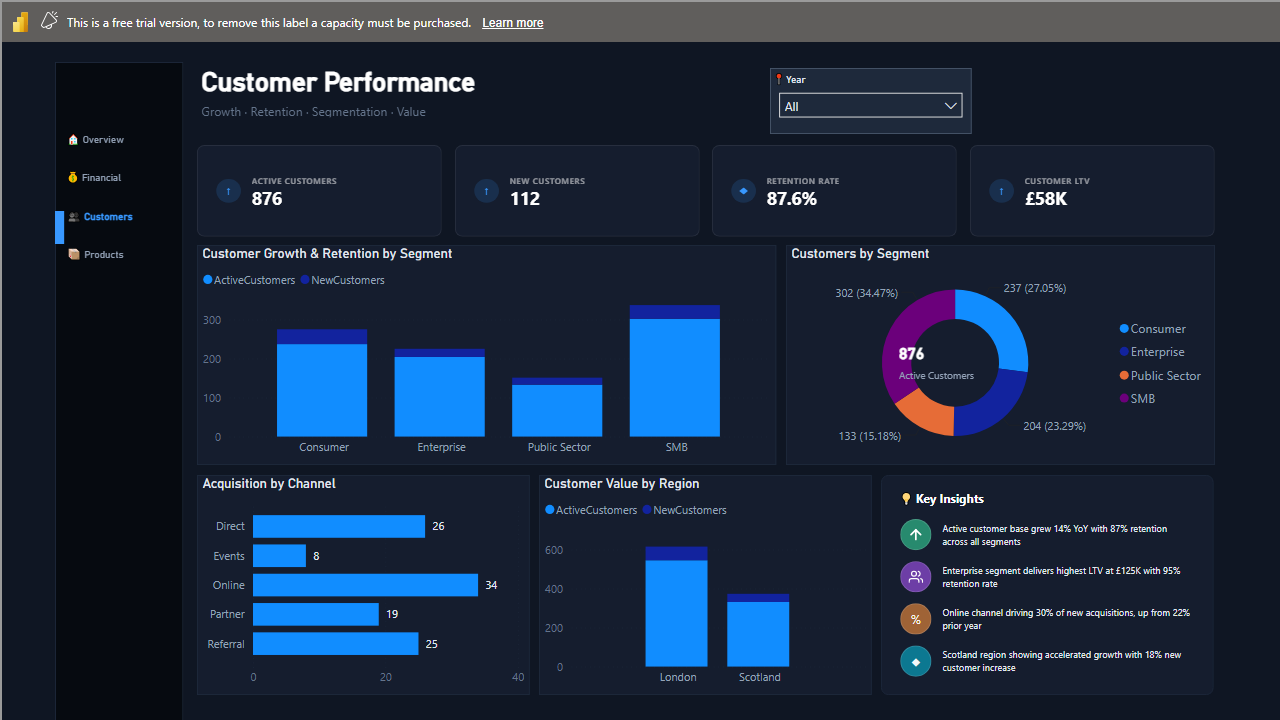
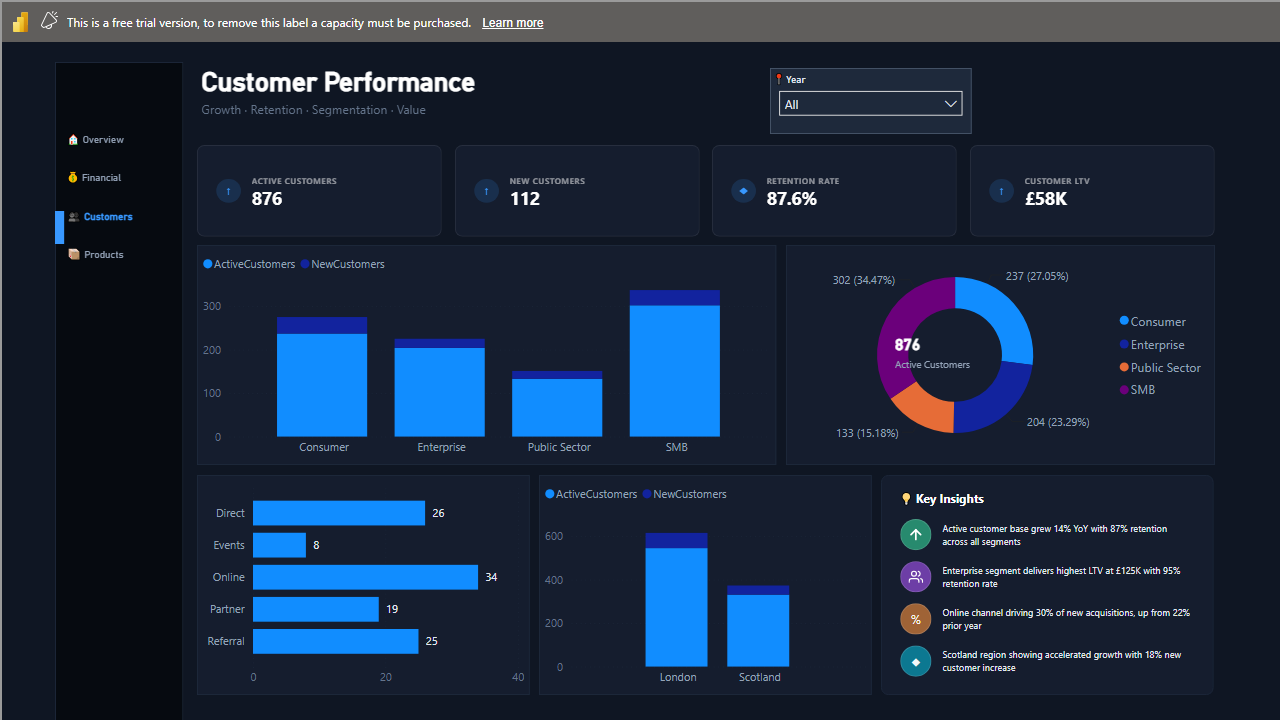
fix(12a): unified headers (inside for charts, outside for KPIs), recalibrate donut center geometry

diff --git a/src/pbi_gen/renderer/templates/builder.py b/src/pbi_gen/renderer/templates/builder.py
@@ -137,17 +137,33 @@ def _build_visual_container_objects(
 ) -> dict:
     """Build visualContainerObjects (title, background, border, padding).
 
-    Uses unified header geometry from DesignTokens for consistent title
-    placement across all visual families.
+    Title placement rule:
+    - KPI cards and overlays: title via visualContainerObjects (renders outside/above panel)
+    - All chart visuals (native + custom): suppress container title; title placed
+      inside the chart via visual.objects.title instead (see _build_native_objects)
+
+    This ensures all chart titles appear INSIDE their panels consistently.
     """
     objs: dict[str, Any] = {}
     overrides = binding.config_overrides
 
-    # Title — unified header system
-    # All titled templates use the same font size, colour, and inset
-    show_title = binding.title != ""
-    title_props: dict[str, Any] = {"show": _literal("true" if show_title else "false")}
-    if show_title:
+    # Determine if this visual should have an OUTSIDE (container) title
+    # KPIs/overlays use outside container title.
+    # Custom chart visuals also use container title (PBI renders it inside
+    # the panel border for custom visuals, so it already appears "inside").
+    # Native chart visuals (bar, column, donut, table) suppress container title
+    # and use objects.title instead (which PBI renders inside the chart area).
+    is_kpi_or_overlay = binding.template_id in ("premium_kpi", "donut_center_kpi")
+    is_custom_visual = _is_custom_visual_type(template_id)
+
+    # For native charts: suppress container title, use objects.title (inside)
+    # For custom visuals & KPIs: use container title
+    use_container_title = is_kpi_or_overlay or is_custom_visual
+    use_container_title = overrides.get("use_outside_title", use_container_title)
+
+    if use_container_title and binding.title:
+        # Container title — for KPIs, overlays, and custom visuals
+        title_props: dict[str, Any] = {"show": _literal("true")}
         title_props["text"] = _literal(f"'{binding.title}'")
         title_color = overrides.get("title_color", tokens.text_secondary)
         title_props["fontColor"] = _solid_color_expr(title_color)
@@ -157,7 +173,10 @@ def _build_visual_container_objects(
             title_props["bold"] = _literal("true")
         if overrides.get("title_alignment"):
             title_props["alignment"] = _literal(f"'{overrides['title_alignment']}'")
-    objs["title"] = [{"properties": title_props}]
+        objs["title"] = [{"properties": title_props}]
+    else:
+        # Suppress container title — native chart visuals use objects.title
+        objs["title"] = [{"properties": {"show": _literal("false")}}]
 
     # Background — custom visuals get transparent; native visuals get surface card
     is_custom = len(template_id) > 20 or template_id.startswith("premium")
@@ -215,8 +234,23 @@ def _build_native_objects(
     tokens: DesignTokens,
     visual_type: str,
 ) -> dict:
-    """Build inner 'objects' for native visuals (labels, axes, etc.)."""
+    """Build inner 'objects' for native visuals (labels, axes, title, etc.).
+
+    The title object here renders INSIDE the chart panel (not above it).
+    This is the standard for all chart visuals.
+    """
     objects: dict[str, Any] = {}
+
+    # Inside title for all native chart visuals (not KPI/card overlays)
+    is_kpi_or_overlay = binding.template_id in ("premium_kpi", "donut_center_kpi")
+    if binding.title and not is_kpi_or_overlay:
+        objects["title"] = [{"properties": {
+            "show": _literal("true"),
+            "text": _literal(f"'{binding.title}'"),
+            "fontColor": _solid_color_expr(tokens.text_secondary),
+            "fontSize": _literal(f"{tokens.section_size}D"),
+            "fontFamily": _literal(f"'{tokens.font_heading}'"),
+        }}]
 
     if visual_type == "barChart":
         objects["labels"] = [{"properties": {

diff --git a/src/pbi_gen/renderer/templates/composites.py b/src/pbi_gen/renderer/templates/composites.py
@@ -25,10 +25,18 @@ from typing import Optional
 # With legend to the right and title at top, the donut plot center is:
 #   cx = (donut_width - legend_width) / 2
 #   cy = title_height + (donut_height - title_height) / 2
+#
+# Now that container title is suppressed (show:false) and native objects.title
+# is used instead, the chart's internal layout is:
+#   - objects.title inside: ~22px
+#   - legend on right: ~130px (including internal padding)
+#   - donut ring centred in remaining area, biased slightly up due to bottom labels
+#   - bottom label/detail area: ~12px
 
-DONUT_TITLE_HEIGHT = 28  # PBI native title row height when title shown
-DONUT_LEGEND_WIDTH = 120  # Approximate legend column width (right-positioned)
-DONUT_PLOT_PADDING = 8  # Internal padding around donut plot
+DONUT_TITLE_HEIGHT = 22  # Native inside title height (objects.title)
+DONUT_LEGEND_WIDTH = 130  # Legend column width (right, with internal padding)
+DONUT_PLOT_PADDING = 10  # Internal padding around donut plot area
+DONUT_BOTTOM_OFFSET = 6  # Ring is slightly above geometric center
 
 
 def compute_donut_center(
@@ -62,8 +70,9 @@ def compute_donut_center(
     plot_h = donut_h - title_offset - DONUT_PLOT_PADDING
 
     # Center of the plot region = center of the donut hole
+    # Shift slightly up to account for bottom labels/detail area
     center_x = plot_x + plot_w // 2
-    center_y = plot_y + plot_h // 2
+    center_y = plot_y + plot_h // 2 - DONUT_BOTTOM_OFFSET
 
     # Overlay positioned so its center aligns with the donut hole center
     overlay_x = center_x - overlay_w // 2

diff --git a/tests/test_stage12a.py b/tests/test_stage12a.py
@@ -6,6 +6,7 @@ from pathlib import Path
 sys.path.insert(0, str(Path(__file__).parent.parent / "src"))
 
 from pbi_gen.renderer.templates.composites import (
+    DONUT_BOTTOM_OFFSET,
     DONUT_LEGEND_WIDTH,
     DONUT_PLOT_PADDING,
     DONUT_TITLE_HEIGHT,
@@ -65,7 +66,7 @@ for x, y, w, h, label in sizes:
     plot_w = w - DONUT_LEGEND_WIDTH - (2 * DONUT_PLOT_PADDING)
     plot_h = h - DONUT_TITLE_HEIGHT - DONUT_PLOT_PADDING
     expected_cx = x + DONUT_PLOT_PADDING + plot_w // 2
-    expected_cy = y + DONUT_TITLE_HEIGHT + plot_h // 2
+    expected_cy = y + DONUT_TITLE_HEIGHT + plot_h // 2 - DONUT_BOTTOM_OFFSET
 
     # Center of overlay
     overlay_cx = cx + cw // 2
